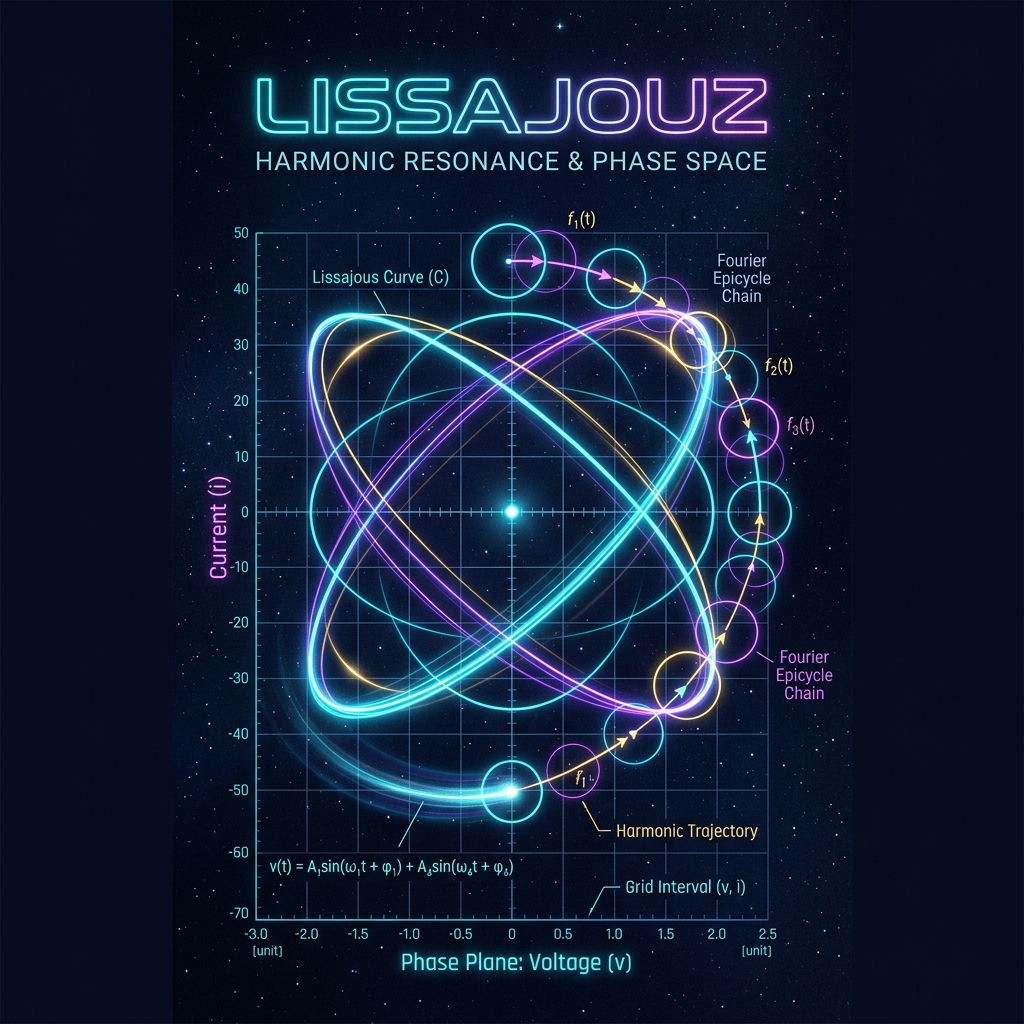
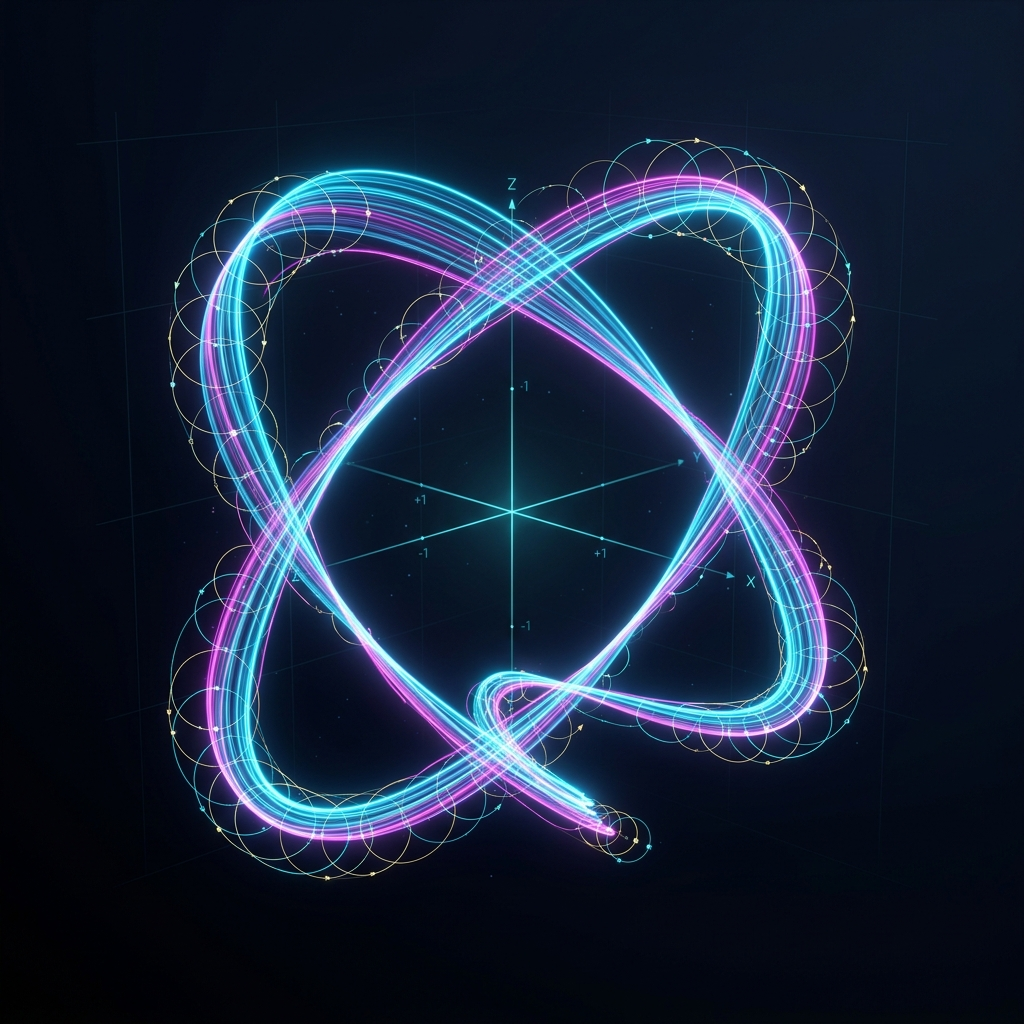
feat(projects): update LissajouZ cover image with clean artwork and remove private repo link

diff --git a/_projects/14_LissajouZ.md b/_projects/14_LissajouZ.md
@@ -8,8 +8,7 @@ importance: 1
 category: diversão
 ---
 
-> 🌐 **Aplicativo Web ao Vivo**: [lissajouz.jeduapf.com](https://lissajouz.jeduapf.com) — *Ferramenta interativa gratuita, 100% no navegador, sem necessidade de instalação!*  
-> 💻 **Código Fonte**: [github.com/jeduapf/LissajouZ](https://github.com/jeduapf/LissajouZ)
+> 🌐 **Aplicativo Web ao Vivo**: [lissajouz.jeduapf.com](https://lissajouz.jeduapf.com) — *Ferramenta interativa gratuita, 100% no navegador, sem necessidade de instalação!*
 
 ---
 

diff --git a/_projects/13_LissajouZ.md b/_projects/13_LissajouZ.md
@@ -8,8 +8,7 @@ importance: 1
 category: cool
 ---
 
-> 🌐 **Application Web en Direct** : [lissajouz.jeduapf.com](https://lissajouz.jeduapf.com) — *Outil interactif gratuit, 100% exécuté dans le navigateur, sans installation !*  
-> 💻 **Code Source** : [github.com/jeduapf/LissajouZ](https://github.com/jeduapf/LissajouZ)
+> 🌐 **Application Web en Direct** : [lissajouz.jeduapf.com](https://lissajouz.jeduapf.com) — *Outil interactif gratuit, 100% exécuté dans le navigateur, sans installation !*
 
 ---
 

diff --git a/_projects/12_LissajouZ.md b/_projects/12_LissajouZ.md
@@ -8,8 +8,7 @@ importance: 1
 category: fun
 ---
 
-> 🌐 **Live Web App**: [lissajouz.jeduapf.com](https://lissajouz.jeduapf.com) — *Free interactive tool, 100% client-side, zero installation needed!*  
-> 💻 **Source Code**: [github.com/jeduapf/LissajouZ](https://github.com/jeduapf/LissajouZ)
+> 🌐 **Live Web App**: [lissajouz.jeduapf.com](https://lissajouz.jeduapf.com) — *Free interactive tool, 100% client-side, zero installation needed!*
 
 ---
 
